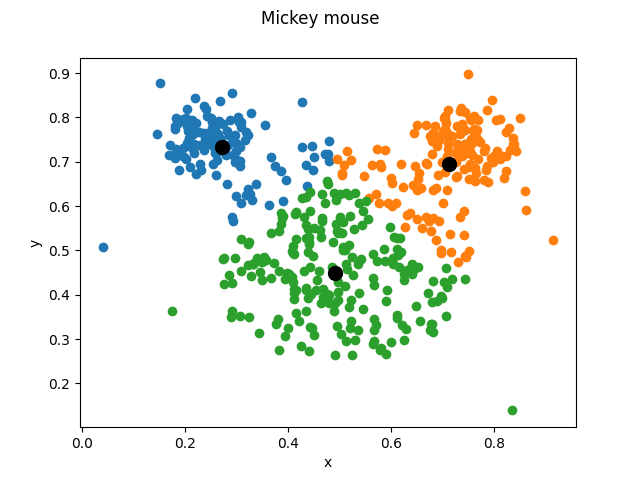
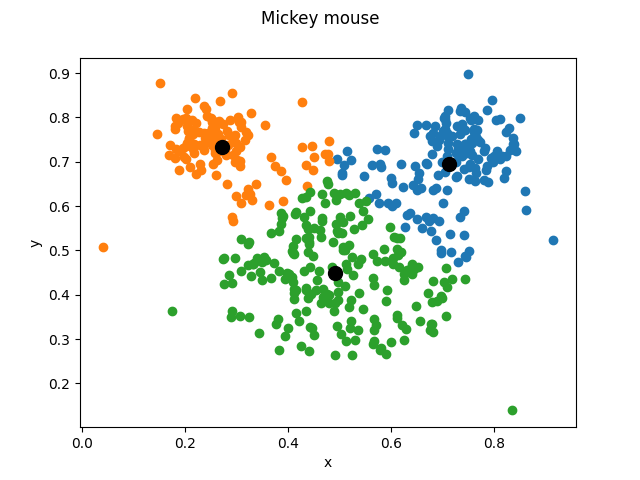
Task 4.2.2

diff --git a/ML1_HW4/code/em.py b/ML1_HW4/code/em.py
@@ -21,7 +21,7 @@ def calculate_responsibilities(X, mean, sigma, pi, N, K):
     # Now calculate responsibilities gamma_nk, that is, the whole expression
     # Use the previously defined and calculated variable denom
     for k in range(K):
-        responsibilities[:, k] = 0 # TODO: change
+        responsibilities[:, k] = pi[k] * likelihood[:, k] / denom
         
     return responsibilities                                             
 
@@ -53,7 +53,11 @@ def update_parameters(X, mean, sigma, pi, responsibilities, N, K):
     for k in range(K):
         gamma_nk = responsibilities[:, k].T
 
-        # TODO: mean_new
+        sum_mean = np.zeros((X.shape[1], ))
+        for n in range(N):
+            sum_mean += X[n] * gamma_nk[n]
+
+        mean_new[k, :] = sum_mean / N_k[k]
         
         tmp = np.zeros_like(sigma_new[k])
         for sample in range(N):
@@ -62,7 +66,7 @@ def update_parameters(X, mean, sigma, pi, responsibilities, N, K):
                                           
         sigma_new[k] = tmp / N_k[k]
 
-        # TODO: pi_new
+        pi_new[k] = N_k[k] / N
     
     return mean_new, sigma_new, pi_new
 
@@ -99,10 +103,10 @@ def em(X, K, max_iter):
 
     for it in range(max_iter):
         # E-Step
-        # TODO: appropriate function call
+        responsibilities = calculate_responsibilities(X, mean, sigma, pi, N, K)
         
         # M-Step
-        # TODO: appropriate function call
+        mean, sigma, pi = update_parameters(X, mean, sigma, pi, responsibilities, N, K)
         
         # Evaluate
         soft_clusters = np.zeros((N, K))

diff --git a/ML1_HW4/assignment-4.tex b/ML1_HW4/assignment-4.tex
@@ -49,6 +49,7 @@
 
     \section{K-means. Expectation-Maximization Algorithm}
     \subsection{K-means Algorithm}
+    \label{subseq:kmeans}
     \textit{See implementation in} \texttt{k\_means.py}
 
     \includegraphics[width=\textwidth/2]{plots/mickey_original} \\
@@ -66,7 +67,18 @@
     But now one would manually have to stitch together the three centroids that all take up some of the space in the big cluster.
 
     \subsection{Expectation-Maximization Algorithm}
+    \textit{See implementation in} \texttt{em.py}
 
+    \includegraphics[width=\textwidth / 2]{plots/mickey_em3}
+    \includegraphics[width=\textwidth / 2]{plots/mickey_em3_likelihood}
+    Compared to the original data (see \ref{subseq:kmeans}), the EM-algorithm provides a very good result.
+    Nearly all of the points are correclty classified, although the algorithm still cannot identify the outliers as such.
+    We also see none of the problems the K-means algorithm had, where parts of the big cluster were assigned to one of the smaller clusters.
+
+    This is also reflected in the final values of $\pi$.
+    We can see clearly that the bigger cluster got a bigger weight, while the two smaller clusters have a similar, smaller weight.\\
+    Inital value of $\pi$: \texttt{Init pi: [0.33333333 0.33333333 0.33333333]}\\
+    Final value of $\pi$: \texttt{Pi: [0.60036228 0.20177808 0.19785964]}
 
     \subsection{Summary and comparison of two algorithms}
     //todo

diff --git a/ML1_HW4/code/main.py b/ML1_HW4/code/main.py
@@ -62,8 +62,8 @@ def plot_mickey_mouse(X, K, ind_samples_clusters, centroids):
 
 def plot_objective_function(arr_over_iter):
     plt.plot(arr_over_iter)
-    plt.suptitle("Loss over iterations")
-    plt.ylabel("Loss")
+    plt.suptitle("Objective over iterations")
+    plt.ylabel("Objective function")
     plt.xlabel("Iteration")
     plt.show()
 
@@ -86,8 +86,8 @@ def task_em(X):
     :param X: data for clustering, shape: (N, D), N=500, D = 2
     :return:
     """
-    K = 1 # TODO: change 
-    max_iter = 1 # TODO: change 
+    K = 3
+    max_iter = 50
     means, soft_clusters, log_likelihood = em(X, K, max_iter)
     
     plot_objective_function(log_likelihood)
@@ -110,7 +110,7 @@ def main():
     
     # ----- Task EM
     print('--- Task EM ---')
-    # task_em(X_mouse) # TODO: uncomment to call the function
+    task_em(X_mouse)
 
 if __name__ == '__main__':
     main()
